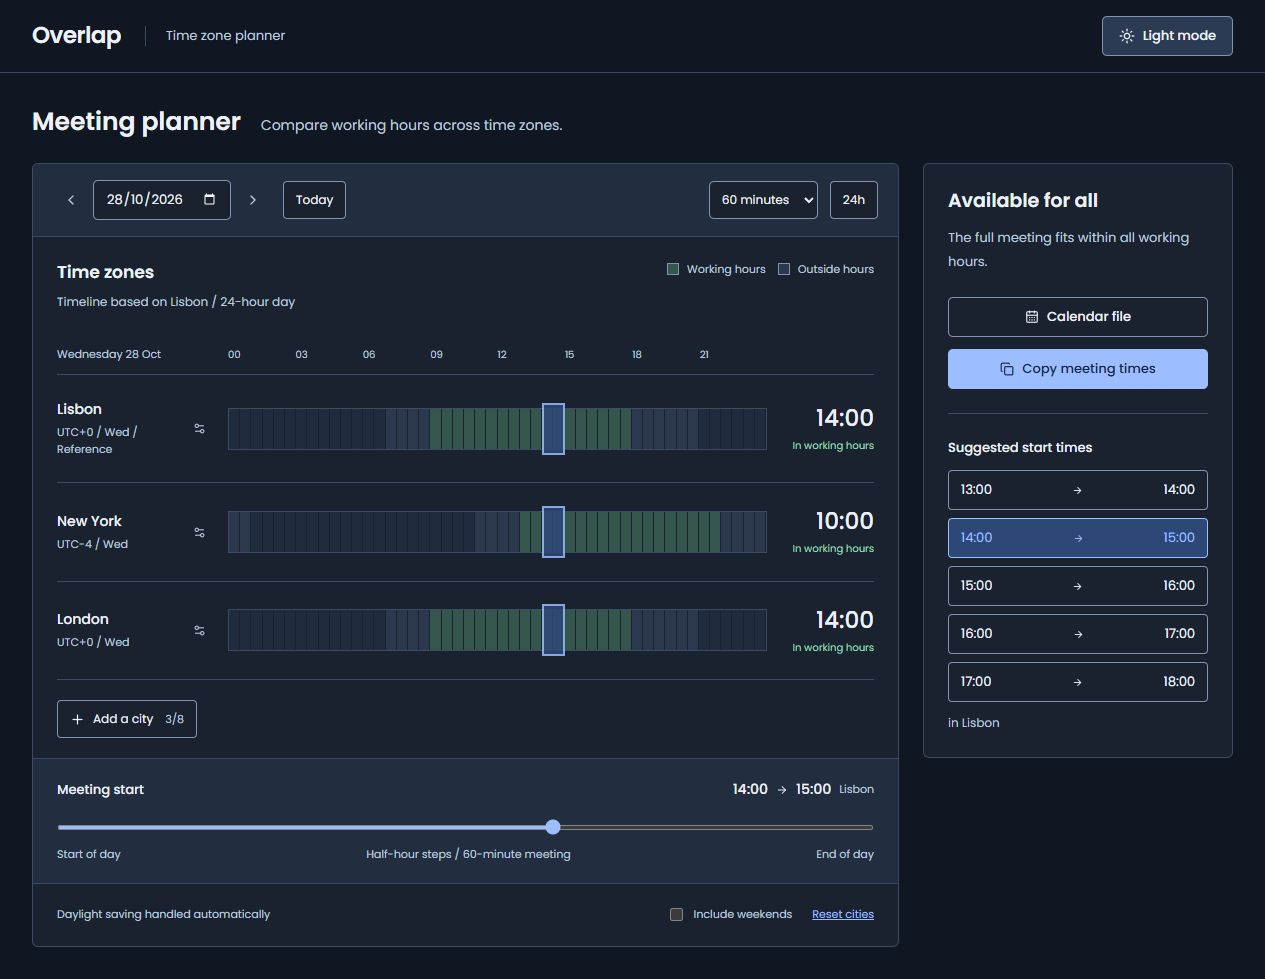
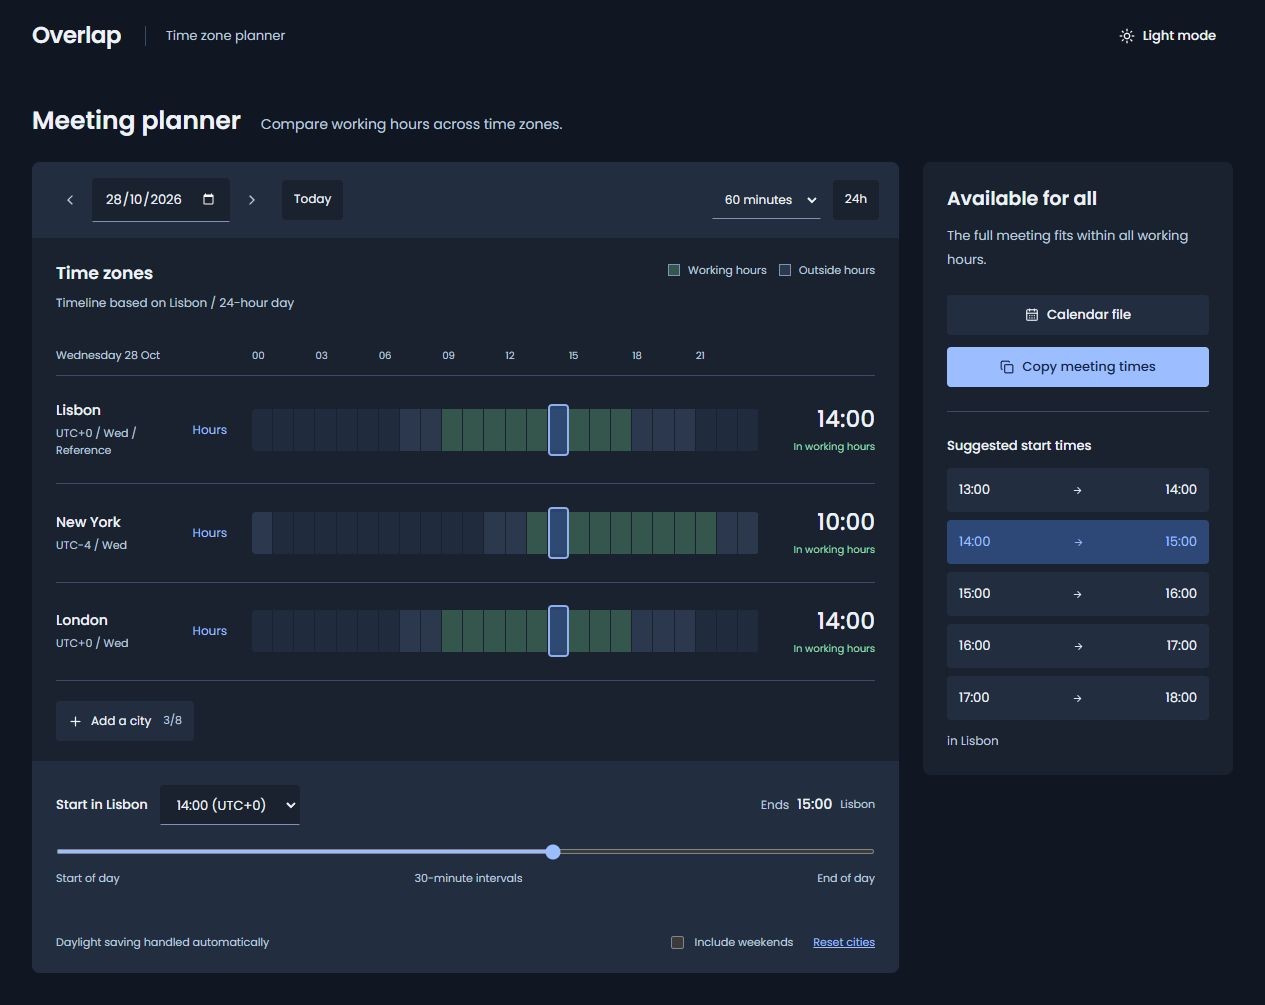
Refine flat Material surfaces and core tool workflows

diff --git a/src/style.css b/src/style.css
@@ -788,3 +788,197 @@ dialog .modal-note {
     width: 100%;
   }
 }
+
+/* The schedule is one flat surface; the selected meeting remains explicit. */
+.topbar {
+  border-bottom: 0;
+}
+.planner {
+  border: 0;
+  border-radius: 8px;
+  overflow: clip;
+}
+.planner-controls {
+  border: 0;
+  border-radius: 8px 8px 0 0;
+  padding: 16px 20px;
+}
+.date-picker input {
+  background: var(--color-paper-2) !important;
+}
+.today-button,
+.format-toggle {
+  border: 0;
+  background: var(--color-paper-2);
+  border-radius: 4px;
+  min-height: 40px;
+}
+.timeline-heading {
+  padding: 24px 24px 12px;
+}
+.timeline-table {
+  padding-inline: 24px;
+}
+.ruler-row,
+.city-row {
+  grid-template-columns: 180px minmax(0, 1fr) 100px;
+}
+.city-settings {
+  width: auto;
+  padding: 8px;
+  color: var(--color-accent);
+  font-size: 12px;
+  min-height: 36px;
+}
+.hour-blocks {
+  border: 0;
+  border-radius: 4px;
+  overflow: clip;
+}
+.hour-blocks span {
+  border-right: 0;
+}
+.hour-blocks span:nth-child(2n) {
+  border-right: 1px solid var(--color-paper-2);
+}
+.selection {
+  border-radius: 4px;
+  opacity: 0.9;
+}
+.city-editor {
+  border: 0;
+  border-radius: 4px;
+  padding: 16px;
+}
+.reference-button {
+  border: 0;
+  background: var(--color-selected);
+  color: var(--color-accent);
+  padding: 8px 12px;
+  min-height: 36px;
+  border-radius: 4px;
+  font-size: 12px;
+}
+.add-city-row button {
+  border: 0;
+  background: var(--color-paper-3);
+  min-height: 40px;
+}
+.slider-area {
+  padding: 24px;
+  border: 0;
+}
+.start-time-field {
+  display: flex;
+  align-items: center;
+  gap: 12px;
+  flex-wrap: wrap;
+}
+.start-time-field > span {
+  font-size: 13px;
+  font-weight: 500;
+}
+.start-time-field select {
+  min-height: 40px !important;
+  font-size: 13px !important;
+  background: var(--color-paper-2) !important;
+}
+.end-time-label {
+  font-size: 12px;
+  color: var(--color-ink-2);
+  font-weight: 400;
+}
+.planner-footer {
+  border: 0;
+  padding: 16px 24px;
+  background: var(--color-paper-3);
+}
+.suggestions {
+  border: 0;
+  background: var(--color-paper-2);
+  border-radius: 8px;
+}
+.suggestion-times button {
+  border: 0;
+  background: var(--color-paper-3);
+  min-height: 44px;
+}
+.suggestion-times button.active {
+  border: 0;
+  background: var(--color-selected);
+  color: var(--color-accent);
+}
+.city-results > button {
+  border: 0;
+  border-radius: 4px;
+  padding: 16px 12px;
+}
+.city-results > button + button {
+  margin-top: 4px;
+}
+@media (max-width: 1220px) {
+  .suggestions {
+    gap: 24px;
+  }
+}
+@media (max-width: 760px) {
+  .ruler-row {
+    grid-template-columns: minmax(0, 1fr);
+  }
+  .city-row {
+    grid-template-columns: minmax(0, 1fr) 110px;
+  }
+  .timeline-table {
+    padding-inline: 20px;
+  }
+  .timeline-heading {
+    padding: 24px 20px 12px;
+  }
+  .start-time-field {
+    width: 100%;
+    justify-content: space-between;
+  }
+  .slider-area > div:first-child > strong {
+    margin-top: 4px;
+  }
+  .slider-area {
+    padding: 24px 20px;
+  }
+  .planner-footer {
+    padding: 16px 20px;
+  }
+  .city-settings {
+    min-height: 44px;
+  }
+  .city-editor {
+    gap: 12px;
+  }
+}
+@media (max-width: 480px) {
+  .start-time-field > span {
+    font-size: 12px;
+  }
+  .start-time-field select {
+    max-width: 170px;
+  }
+  .timeline-heading {
+    padding-inline: 16px;
+  }
+  .timeline-table {
+    padding-inline: 16px;
+  }
+  .slider-area {
+    padding-inline: 16px;
+  }
+  .planner-footer {
+    padding-inline: 16px;
+  }
+  .control-right {
+    padding-top: 4px;
+  }
+  .today-button,
+  .format-toggle,
+  .add-city-row button {
+    min-height: 44px;
+  }
+}

diff --git a/src/App.tsx b/src/App.tsx
@@ -1,3 +1,4 @@
+import { rebaseMeeting } from './time';
 import ThemeToggle from './ThemeToggle';
 import { useEffect, useMemo, useRef, useState } from 'react';
 import {
@@ -12,7 +13,6 @@ import {
   MapPin,
   Minus,
   Plus,
-  Settings2,
   X,
 } from 'lucide-react';
 import {
@@ -312,7 +312,7 @@ export default function App() {
                         aria-label={'Working hours for ' + city.name}
                         onClick={() => setEdit(edit === city.id ? null : city.id)}
                       >
-                        <Settings2 size={13} />
+                        <span>Hours</span>
                       </button>
                     </div>
                     <div
@@ -394,6 +394,24 @@ export default function App() {
                             ))}
                           </select>
                         </label>
+                        {i !== 0 && (
+                          <button
+                            className="reference-button"
+                            onClick={() => {
+                              const next = rebaseMeeting(selected, city.zone, duration);
+                              setCities((old) => [city, ...old.filter((c) => c.id !== city.id)]);
+                              setDate(next.date);
+                              setIndex(next.index);
+                              setEdit(null);
+                              if (next.start !== selected)
+                                setNotice(
+                                  'Start time adjusted to the nearest valid 30-minute interval in the reference zone.',
+                                );
+                            }}
+                          >
+                            Use as reference
+                          </button>
+                        )}
                         {cities.length > 1 && (
                           <button
                             className="remove-city"
@@ -428,10 +446,22 @@ export default function App() {
           </div>
           <div className="slider-area">
             <div>
-              <span>Meeting start</span>
+              <label className="start-time-field">
+                <span>Start in {cities[0].name}</span>
+                <select
+                  aria-label="Meeting start time"
+                  value={safeIndex}
+                  onChange={(event) => setIndex(Number(event.target.value))}
+                >
+                  {slots.slice(0, lastIndex + 1).map((time, slotIndex) => (
+                    <option key={time} value={slotIndex}>
+                      {timeLabel(time, cities[0].zone, hour12)} ({utcOffset(time, cities[0].zone)})
+                    </option>
+                  ))}
+                </select>
+              </label>
               <strong>
-                {timeLabel(selected, cities[0].zone, hour12)}
-                <ArrowRight size={12} />
+                <span className="end-time-label">Ends</span>
                 {timeLabel(end, cities[0].zone, hour12)}
                 <small>{cities[0].name}</small>
               </strong>
@@ -446,7 +476,7 @@ export default function App() {
             />
             <div className="slider-ticks">
               <span>Start of day</span>
-              <span>Half-hour steps / {duration}-minute meeting</span>
+              <span>30-minute intervals</span>
               <span>End of day</span>
             </div>
           </div>

diff --git a/src/time.test.ts b/src/time.test.ts
@@ -1,3 +1,4 @@
+import { rebaseMeeting } from './time';
 import { describe, it, expect } from 'vitest';
 import { daySlots, midnight, localParts, available, working, nextDate, type City } from './time';
 const lisbon: City = { id: '1', name: 'Lisbon', zone: 'Europe/Lisbon', start: 9, end: 18 };
@@ -27,5 +28,24 @@ describe('timezone planning', () => {
     const ny = { ...lisbon, zone: 'America/New_York' };
     expect(available(Date.parse('2026-10-28T13:00Z'), 60, [lisbon, ny])).toBe(true);
     expect(available(Date.parse('2026-10-28T12:00Z'), 60, [lisbon, ny])).toBe(false);
+  });
+});
+
+describe('changing the reference timezone', () => {
+  it('keeps the absolute meeting time in zones with matching half-hour intervals', () => {
+    const start = Date.parse('2026-10-28T15:00:00Z');
+    const rebased = rebaseMeeting(start, 'America/New_York', 60);
+    expect(rebased.start).toBe(start);
+    expect(localParts(rebased.start, 'America/New_York').hour).toBe(11);
+  });
+  it('reports the nearest interval when a quarter-hour offset cannot keep the old start', () => {
+    const start = Date.parse('2026-10-28T14:00:00Z');
+    const rebased = rebaseMeeting(start, 'Asia/Kathmandu', 60);
+    expect(Math.abs(rebased.start - start)).toBe(15 * 60_000);
+    expect(localParts(rebased.start, 'Asia/Kathmandu').minute % 30).toBe(0);
+  });
+  it('keeps the full meeting inside the selected reference day', () => {
+    const rebased = rebaseMeeting(Date.parse('2026-10-28T23:30:00Z'), 'Europe/Lisbon', 60);
+    expect(new Date(rebased.start).toISOString()).toBe('2026-10-28T23:00:00.000Z');
   });
 });

diff --git a/src/base.css b/src/base.css
@@ -110,11 +110,12 @@ textarea {
 input:not([type='checkbox']):not([type='radio']):not([type='range']):not([type='file']),
 select,
 textarea {
-  border: 1px solid var(--color-input-edge);
-  border-radius: 5px;
-  background: var(--color-paper-2);
+  border: 1px solid transparent;
+  border-bottom-color: var(--color-input-edge);
+  border-radius: 4px 4px 0 0;
+  background: var(--color-paper-3);
   color: var(--color-ink);
-  min-height: 40px;
+  min-height: 44px;
   padding: 8px 12px;
   min-width: 0;
   font-size: 14px;
@@ -150,9 +151,9 @@ fieldset:disabled {
   justify-content: center;
   gap: 8px;
   padding: 8px 16px;
-  border: 1px solid var(--color-input-edge);
-  border-radius: 5px;
-  background: var(--color-paper-2);
+  border: 1px solid transparent;
+  border-radius: 4px;
+  background: var(--color-paper-3);
   color: var(--color-ink);
   font-size: 13px;
   font-weight: 500;
@@ -171,7 +172,7 @@ fieldset:disabled {
   border-color: var(--color-accent-hover);
 }
 .button:disabled {
-  border-color: var(--color-rule);
+  border-color: transparent;
   background: var(--color-disabled);
   color: var(--color-muted);
 }

diff --git a/src/time.ts b/src/time.ts
@@ -54,6 +54,14 @@ export function daySlots(date: string, zone: string) {
     end = midnight(nextDate(date), zone);
   return Array.from({ length: Math.round((end - first) / 1800000) }, (_, i) => first + i * 1800000);
 }
+
+export function rebaseMeeting(start: number, zone: string, duration: number) {
+  const date = localParts(start, zone).date;
+  const slots = daySlots(date, zone);
+  const lastIndex = Math.max(0, slots.length - duration / 30);
+  const index = Math.max(0, Math.min(lastIndex, Math.round((start - slots[0]) / 1_800_000)));
+  return { date, index, start: slots[index] };
+}
 export function working(time: number, city: City, weekends = false) {
   const p = localParts(time, city.zone);
   if (!weekends && ['Sat', 'Sun'].includes(p.weekday)) return false;

diff --git a/DESIGN.md b/DESIGN.md
@@ -7,3 +7,5 @@ Layout: working-hour grid with a meeting summary and available times in a separa
 Colours and fonts live in src/tokens.css. Both themes have explicit foreground/background pairs, native colour schemes, and focus rings. The theme control stores an app-specific preference; system preference is used on the first visit.
 
 Preserve existing fields, API routes, calculations, downloads, and keyboard controls. Avoid decorative badges, status dots, oversized introductions, slogans, and background illustrations. State indicators must communicate real application state.
+
+Material flat refinement: tonal surfaces rather than outlined containers, filled fields with a clear lower edge, neutral secondary actions, no shadows, and one primary action per task state. Keep real data and work controls prominent.

diff --git a/README.md b/README.md
@@ -10,6 +10,8 @@ A timezone meeting planner with working-hour comparisons and calendar exports.
 
 ## What it does
 
+- Select the start time directly and change the reference city without unnecessary time shifts.
+
 - Start with Lisbon, New York, and London, or search for other cities and IANA timezones.
 - Compare up to eight locations on a shared timeline.
 - Pick a date, a 30/60/90/120-minute duration, and a start time in half-hour steps.
